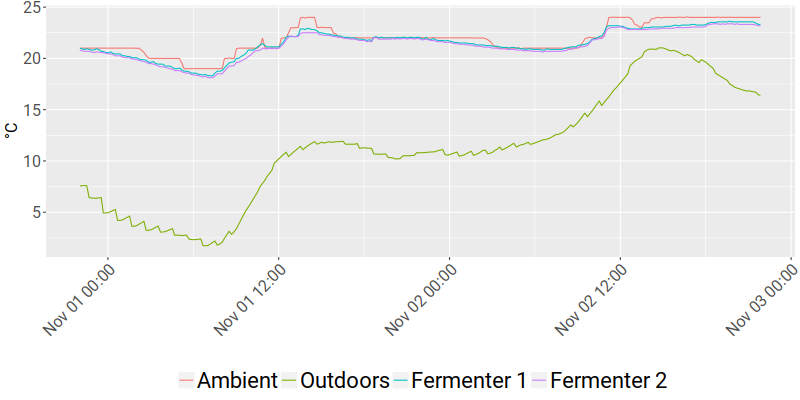
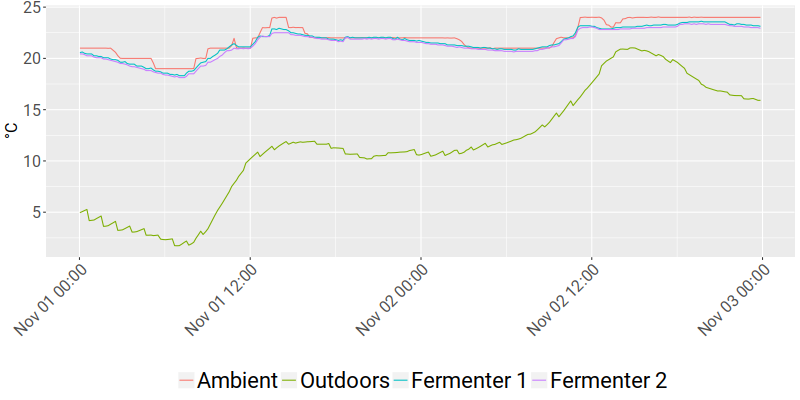
Update live temperature on site

diff --git a/temperature.js b/temperature.js
@@ -1,1 +1,1 @@
-document.write("<h4>Inside Temperature: 24.0°C</h4><h4>Outside Temperature: 16.41°C</h4><h4>Fermenter 1 Temperature: 23.31°C</h4><h4>Fermenter 2 Temperature: 23.19°C</h4><h4>Inside Humidity: 65.17%</h4><h4>Outside Humidity: 91.0%</h4><br>Last update: 2017-11-02 21:50:50");
+document.write("<h4>Inside Temperature: 24.0°C</h4><h4>Outside Temperature: 15.91°C</h4><h4>Fermenter 1 Temperature: 23.13°C</h4><h4>Fermenter 2 Temperature: 22.94°C</h4><h4>Inside Humidity: 65.77%</h4><h4>Outside Humidity: 93.0%</h4><br>Last update: 2017-11-02 23:51:26");
